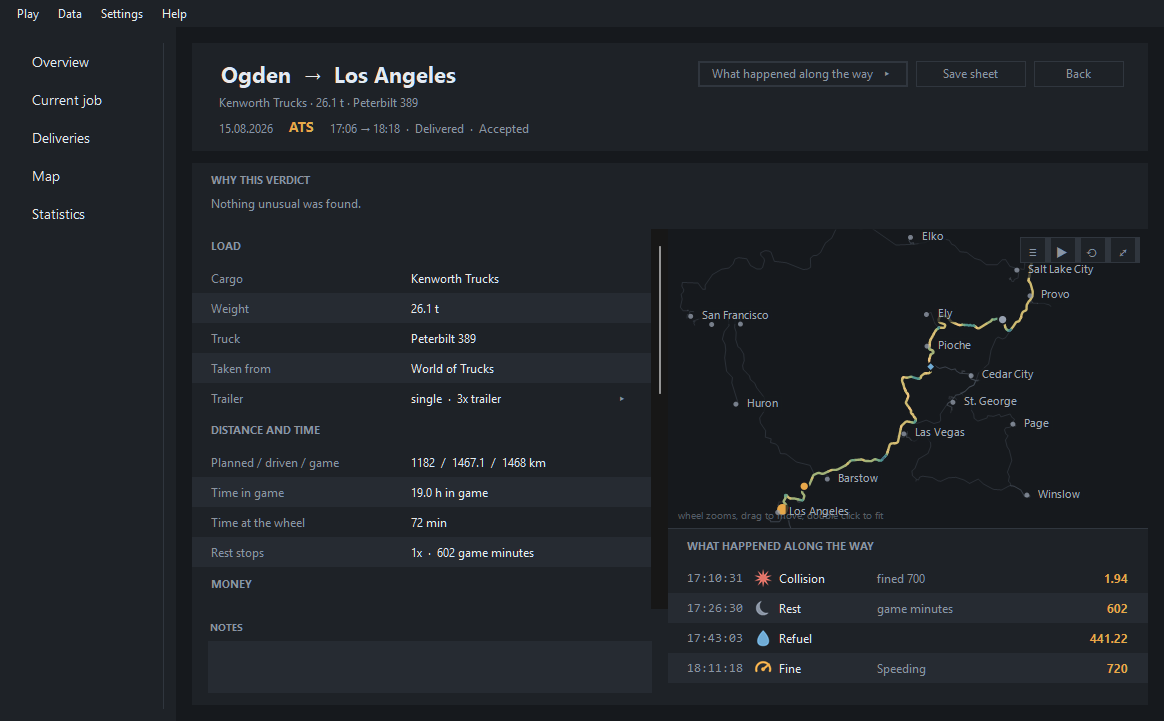
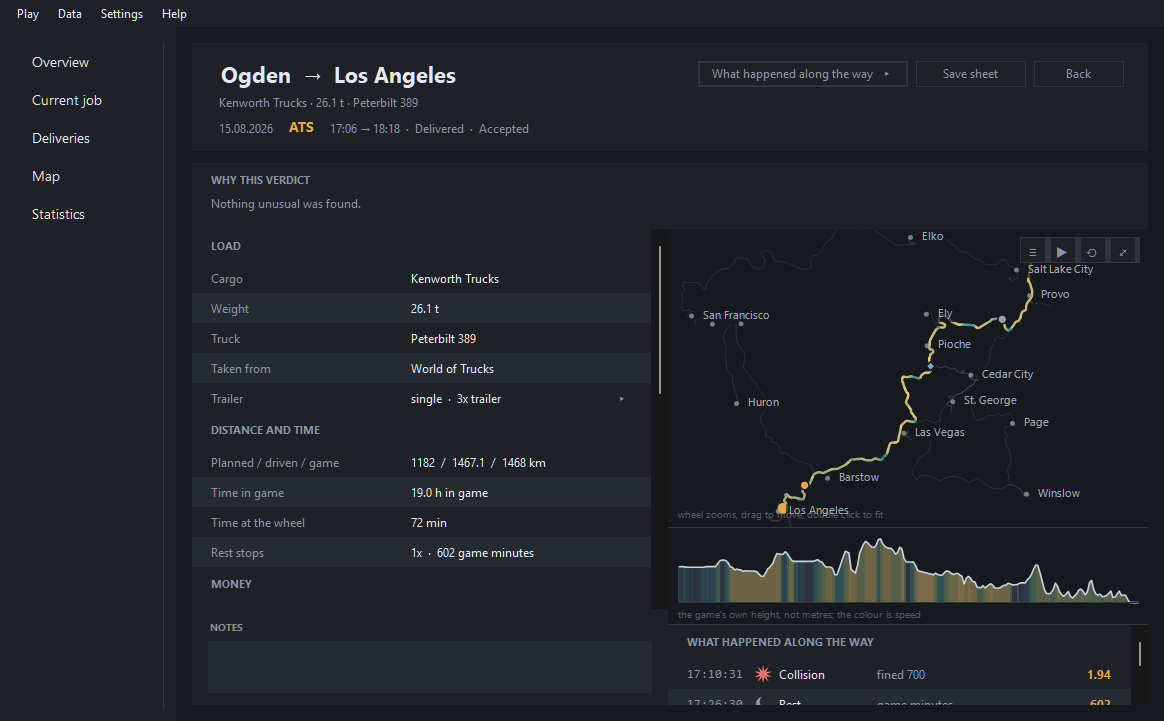
Write up the profile and the period, and measure the vertical
The height measurements go in measurement.md beside the distance ones, because
they are the same finding twice: the game's vertical is no more a scaled
elevation than its horizontal is a scaled country. Winslow and Tucson sit at the
same height in the game while the real places are eight hundred metres apart,
and across the cities driven to the ratio between game and reality runs from 0.5
to 36.6. That is why the profile shows a shape and no metres.

Screenshots retaken: the route panel has a profile under its map now, and the
statistics page has the period and the game above its figures.

diff --git a/README.md b/README.md
@@ -78,6 +78,8 @@ Every state, flag and anomaly is listed with its meaning in
 * Explains every verdict in words rather than leaving a label on the row
 * Draws where each delivery went, with every fine and collision marked on it
 * Draws it the way it was driven, so the order things happened in is visible
+* Draws the same drive from the side, so a slow hour explains itself
+* Answers for a week or a month, and says how that compares with the one before
 * Marks each thing that happened with a sign of its own, and explains every sign
 * Names a trailer for what it is instead of for the file it came out of
 * Marks an oversize load as one, on its card and in the list
@@ -179,9 +181,20 @@ and worth nothing when nothing did, so they stay out of the way until asked for.
 
 ![The route and the timeline](assets/delivery-route.png)
 
-*Statistics* is the whole logbook at a glance, on one screen with no scrolling.
+*Statistics* is the logbook at a glance, on one screen with no scrolling. Two
+controls above the figures say which deliveries they are about: a period, and
+which game. Pick a period and every figure that is a sum also says how it moved
+against the same length of time immediately before it, so this week against last
+week is one number on the tile rather than two pages to read back and forth
+between.
 
 ![The statistics page](assets/statistics.png)
+
+A week runs from Monday and a month from the first, so *this week* is the week
+you are in rather than the last seven days: a rolling window compared against the
+window before it compares two overlapping halves of the same evening's driving.
+The change is a percentage and never a verdict. Driving less this week than last
+is not worse, it is a week.
 
 Distance driven with nothing on the hook has its own tile there, beside the
 deliveries rather than folded into them, and the delivery figure carries both
@@ -261,6 +274,22 @@ turned off, since they are what makes the rest readable.
 
 The same map, smaller, sits in the panel a delivery's card slides out, where a
 third button opens it full screen.
+
+### The same drive from the side
+
+Under the map is the height the drive was at, coloured by the same eight speeds
+the route is, and drawn out alongside it at the same rate. A route from above
+says where the drive went; it does not say why forty minutes of it were spent at
+fifty. The mountain says that.
+
+It reports no height in metres and no gradient, for the reason the map reports no
+distances: the game's vertical is not a scaled version of the real one either.
+The drop at Winslow sits at the same height in the game as the drop at Tucson
+while the real places are eight hundred metres apart, and across the cities
+driven to the ratio between game and reality runs from under one to over thirty
+six. What is left is true and is the useful part: the order of the climbs, their
+size against each other within the drive, and the speed on each. The measurements
+are in [`docs/measurement.md`](docs/measurement.md).
 
 ### A route draws itself
 

diff --git a/docs/roadmap.md b/docs/roadmap.md
@@ -380,15 +380,20 @@ rather than only tested.
 - Rebuild from the raw recordings, which is what makes every judgement above
   revisable rather than frozen at whatever the tracker believed that day
 
-**Phase 2, partly.** Export tools are there. Achievements, session statistics and
-period comparisons are not.
+**Phase 2, partly.** Export tools are there, and so are period comparisons: the
+statistics page answers for a week or a month and says how each figure moved
+against the same length of time before it, and it can be narrowed to one game.
+Achievements and session statistics are not built, and neither is comparing one
+truck against another, which wants a different shape of page than a row of tiles.
 
 **Phase 3, mostly.** The map is drawn: a delivery's own route with its events
 marked on it, and a page showing every drive of one game at once, where clicking a
 route opens it. Replay is there in the form the data supports, which is the line
-drawing itself from the pickup to the drop at the pace the drive went; replay from
-inside the cab is not, and neither is the elevation profile, though altitude has
-been recorded all along.
+drawing itself from the pickup to the drop at the pace the drive went. The
+elevation profile is there too, drawn beside the route and in step with it, and
+it turned out to need the same decision the map did: the game's vertical is no
+more a scaled elevation than its horizontal is a scaled country, so the profile
+shows the shape and reports no metres. Replay from inside the cab is not built.
 
 The map turned out to need a decision this document did not anticipate. The game's
 world is not a scaled country: measured over nineteen deliveries some pairs of

diff --git a/docs/measurement.md b/docs/measurement.md
@@ -27,6 +27,37 @@ teleport or from a position being loaded.
 World position is stored separately. It serves teleport detection and, later on,
 drawing the route. It is never used to count distance travelled.
 
+## Height is not elevation either
+
+The game publishes a vertical position along with the horizontal one, and it is
+tempting to read it as metres above sea level. It is not, and the reason is the
+same one that stops the map being a real map.
+
+Taken across the deliveries here, the height the game gives the drop in each city
+against that city's real elevation:
+
+| City | Game height | Real elevation | Real / game |
+|---|---|---|---|
+| Winslow | 41 | 1500 m | 36.6 |
+| Page | 50 | 1304 m | 26.3 |
+| Barstow | 29 | 664 m | 22.6 |
+| Ogden | 68 | 1320 m | 19.5 |
+| Tucson | 40 | 728 m | 18.0 |
+| Ely | 104 | 1963 m | 18.8 |
+| Cedar City | 104 | 1780 m | 17.2 |
+| Salt Lake City | 84 | 1288 m | 15.3 |
+| San Diego | 22 | 19 m | 0.9 |
+| Stockton | 9 | 4 m | 0.5 |
+
+No single factor fits, and no offset rescues it: Winslow and Tucson sit at the
+same height in the game while the real places are eight hundred metres apart.
+
+So the elevation profile draws the shape and reports no metres, exactly as the
+map draws the route and reports no kilometres. What it does say is true: the
+order of the climbs, how they compare with each other inside that one drive, and
+the speed on each. Gradient is not offered at all, since it would need a real
+horizontal scale as well as a vertical one and would be wrong twice over.
+
 ## Average speed
 
 It has to divide simulated km by the game time spent driving.

diff --git a/assets/README.md b/assets/README.md
@@ -8,10 +8,10 @@
 | `current-job.png` | The tracker's own view of the same drive, log and all. |
 | `deliveries.png` | The delivery history, used at the top of the README. |
 | `delivery-card.png` | One delivery on its own card. |
-| `delivery-route.png` | The same card with the route and timeline slid out. |
+| `delivery-route.png` | The same card with the route, the height profile and the timeline slid out. |
 | `trailer-chain.png` | A triple with its units and dollies opened out. |
 | `map.png` | The map page, with one route lit under the pointer. |
-| `statistics.png` | The statistics page. |
+| `statistics.png` | The statistics page, with the period and game it is answering for. |
 | `waybill-sheet.png` | A delivery exported as an A4 sheet. |
 | `legend.png` | Every mark the window uses, with what it means. |
 
